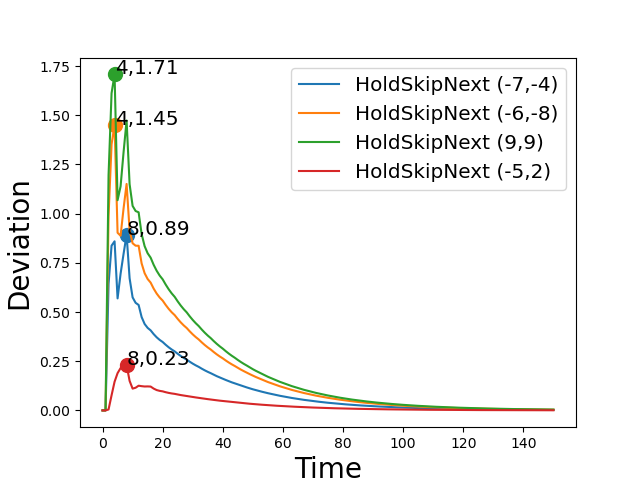
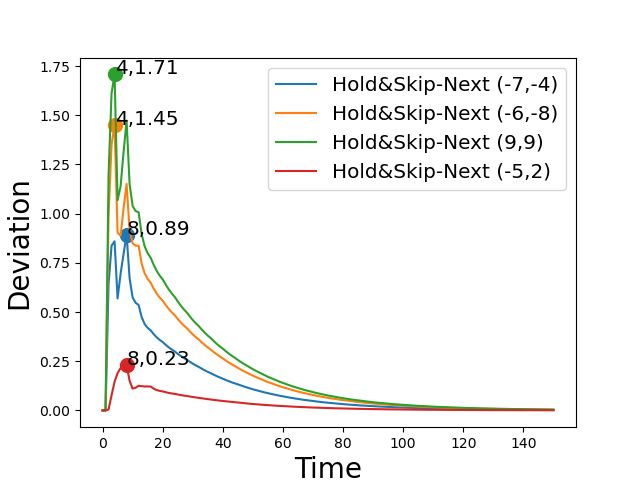
viz changes

diff --git a/src/RCCaseStudy.py b/src/RCCaseStudy.py
@@ -452,7 +452,7 @@ class FSMBased:
         (dList_ZSN,maxT_ZSN)=FSMBased.zeroAndSkipNext(P,MAX_DEADLINE,T)
         print("\n-----------\n")
 
-        labels=["HoldKill("+str(MAX_DEADLINE)+")","ZeroKill("+str(MAX_DEADLINE)+")","HoldSkipNext("+str(MAX_DEADLINE)+")","ZeroSkipNext("+str(MAX_DEADLINE)+")"]
+        labels=["Hold&Kill("+str(MAX_DEADLINE)+")","Zero&Kill("+str(MAX_DEADLINE)+")","Hold&Skip-Next("+str(MAX_DEADLINE)+")","Zero&Skip-Next("+str(MAX_DEADLINE)+")"]
         allDevLists=[dList_HK,dList_ZK,dList_HSA,dList_ZSN]
         maxTLists=[maxT_HK,maxT_ZK,maxT_HSA,maxT_ZSN]
 
@@ -467,7 +467,7 @@ class FSMBased:
 
             (dList_HSA,maxT_HSA)=FSMBased.holdAndSkipAny(P,m,T)
             print("\n-----------\n")
-            labels.append("HoldSkipNext("+str(m)+")")
+            labels.append("Hold&Skip-Next("+str(m)+")")
             allDevLists.append(dList_HSA)
             maxTLists.append(maxT_HSA)
 
@@ -483,7 +483,7 @@ class FSMBased:
             (dList_HSA,maxT_HSA)=FSMBased.holdAndSkipAny(P,MAX_DEADLINE,T)
             print("Init Set: ",P[0][0],",",P[1][0])
             print("\n-----------\n")
-            labels.append("HoldSkipNext ("+str(P[0][0])+","+str(P[1][0])+")")
+            labels.append("Hold&Skip-Next ("+str(P[0][0])+","+str(P[1][0])+")")
             allDevLists.append(dList_HSA)
             maxTLists.append(maxT_HSA)
 
